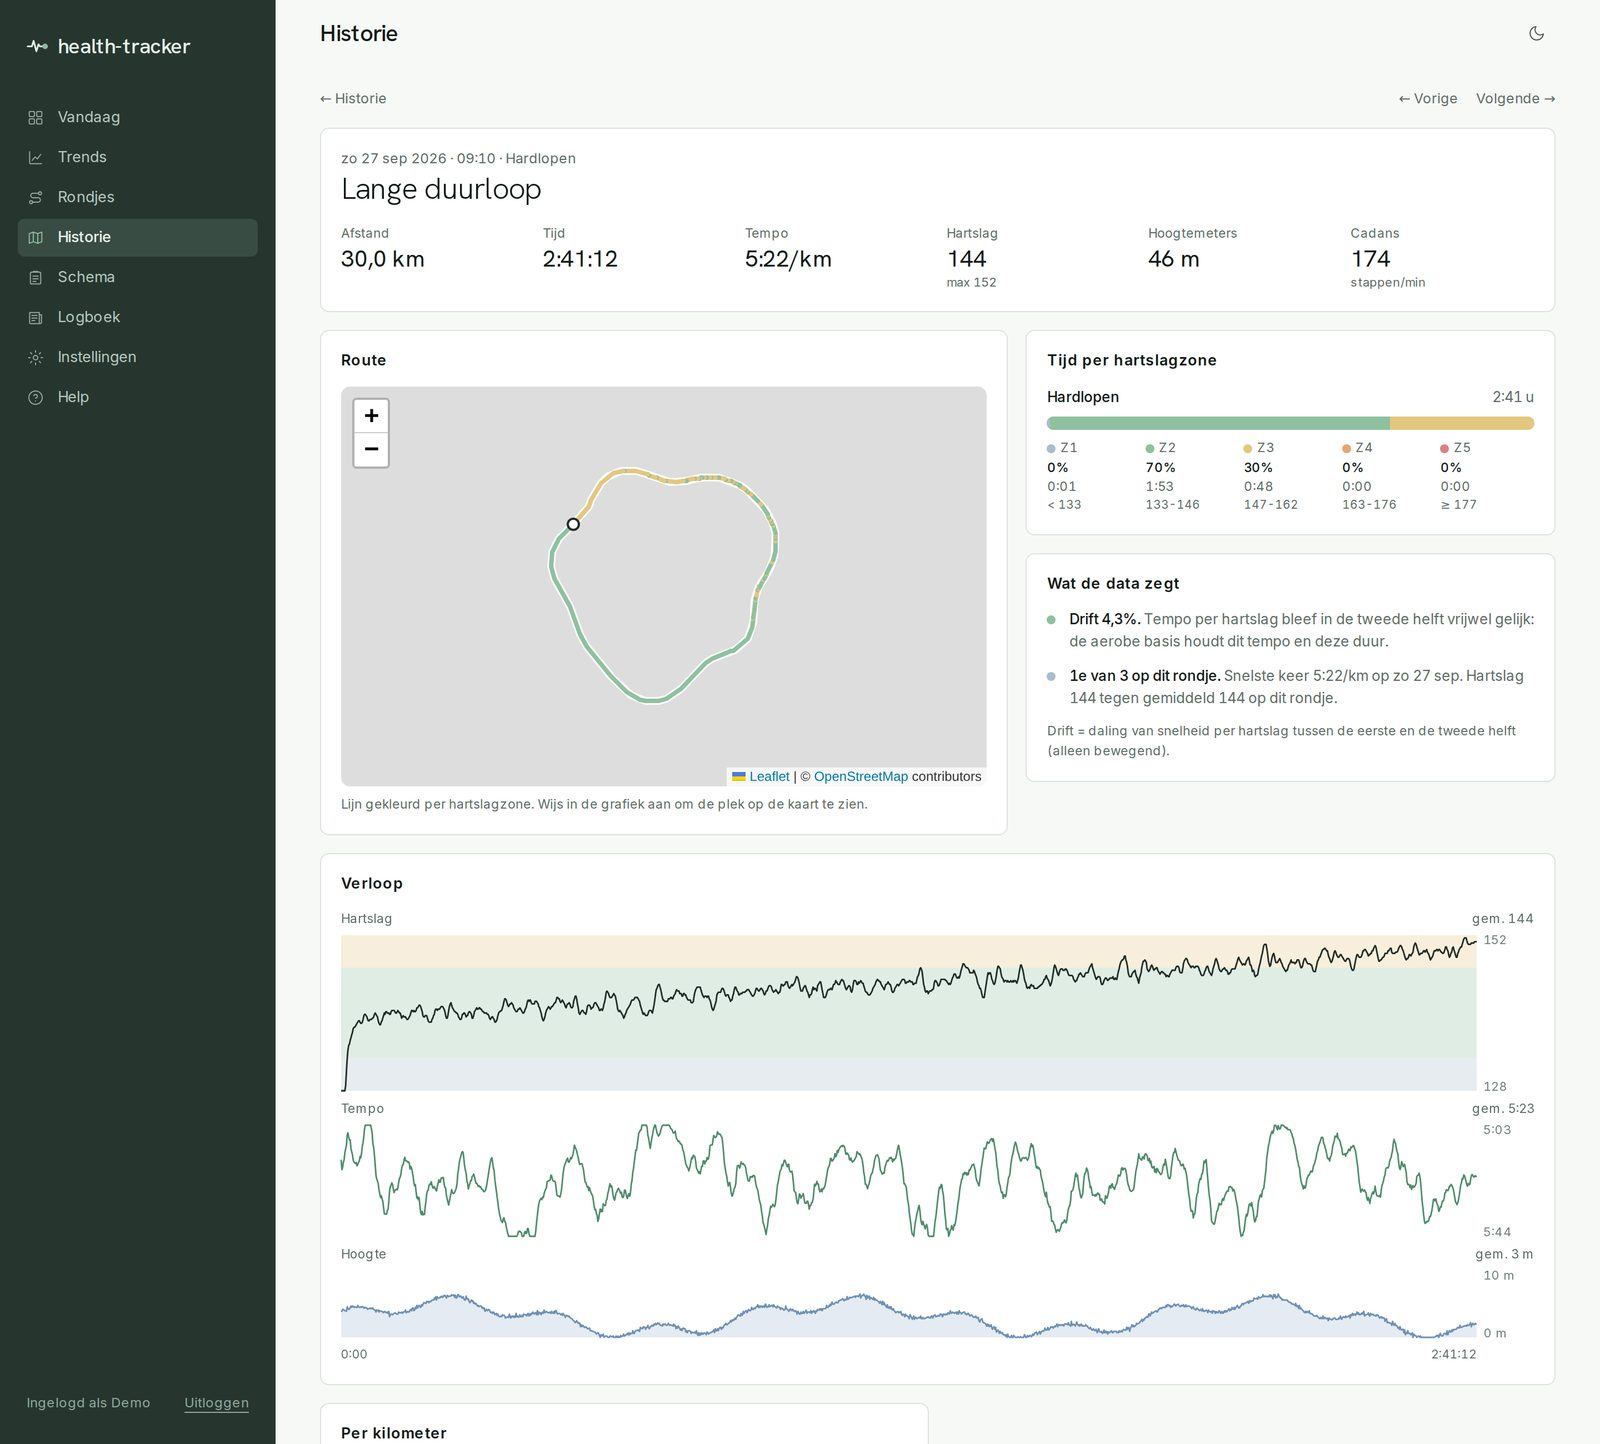
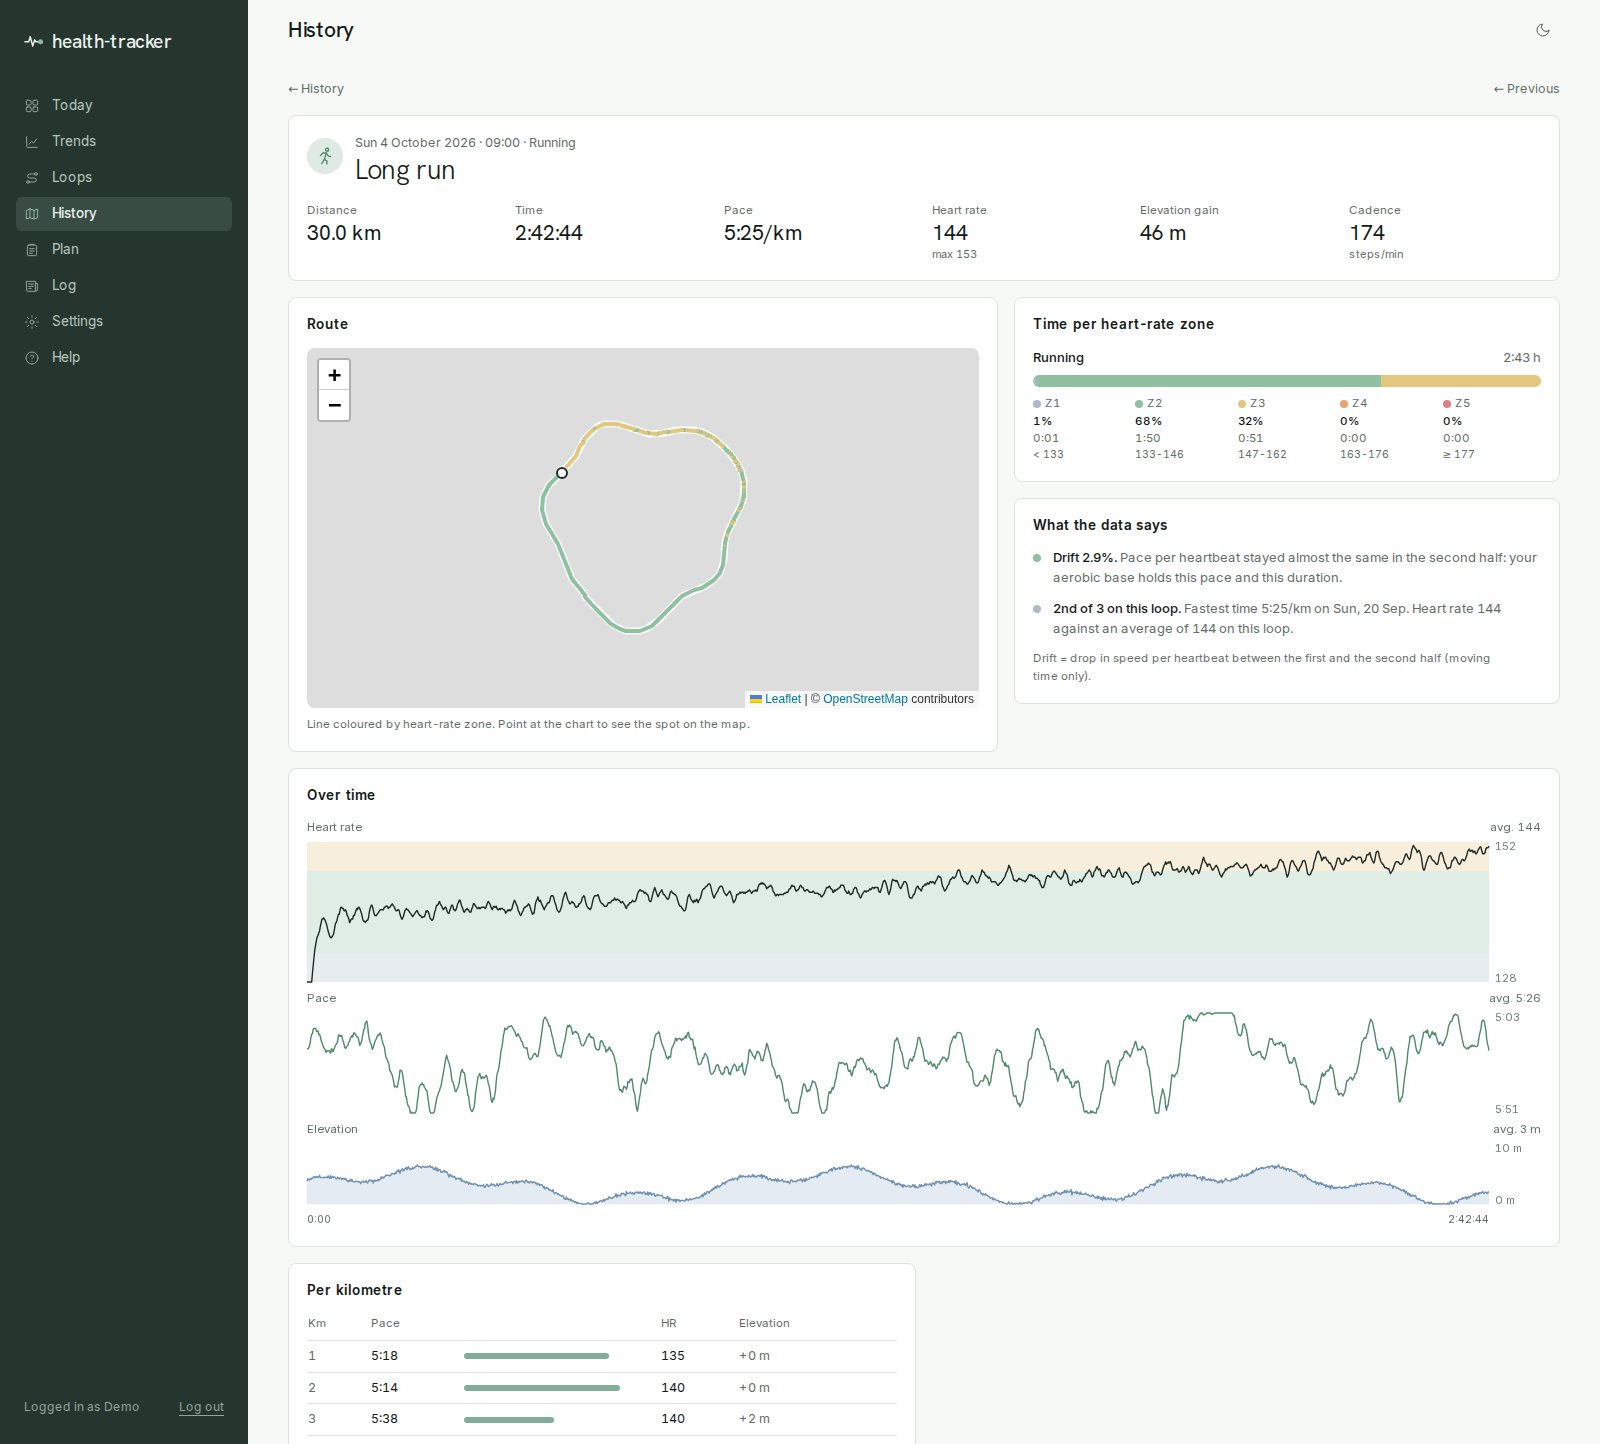
README screenshots in English, with a script to retake them; English UI labels in the README
Claude-Session: https://claude.ai/code/session_01G7FmcGzhzmbNA2gWi5bSnJ

diff --git a/README.md b/README.md
@@ -2,9 +2,9 @@
 
 **A self-hosted training platform on top of your Garmin data, built so that both you and an AI coach (Claude, over MCP) work from the same numbers.**
 
-![Dashboard ("Vandaag") with readiness, upcoming sessions, form and time per heart-rate zone](docs/screenshots/dashboard.jpg)
+![The Today page with readiness, training load, this week of the plan, upcoming sessions and form](docs/screenshots/dashboard.jpg)
 
-<sub>All screenshots show the synthetic demo account from [`scripts/seed_demo.py`](scripts/seed_demo.py); no real person's data. The UI is in Dutch and English; these screenshots show the Dutch version.</sub>
+<sub>All screenshots show the synthetic demo account from [`scripts/seed_demo.py`](scripts/seed_demo.py); no real person's data. The UI is in English and Dutch; these screenshots show the English version. Regenerate them with [`scripts/screenshots.mjs`](scripts/screenshots.mjs).</sub>
 
 health-tracker syncs runs, rides, swims, sleep and recovery from Garmin Connect into Postgres, computes what the watch
 app does not (your own heart-rate zones per sport, training load, recurring routes, race predictions) and shows it in a
@@ -27,7 +27,7 @@ can run their own instance, invite friends, and each account only ever sees its 
 
 ## Features
 
-**Today (Vandaag).** A readiness check that compares last night's resting heart rate, sleep and Body Battery with *your own*
+**Today.** A readiness check that compares last night's resting heart rate, sleep and Body Battery with *your own*
 baseline and your current form, the next sessions from the active plan (with a suggested route), form (fitness, fatigue,
 freshness), time per heart-rate zone per week or month for all sports and per sport, and this week's volume next to the
 four-week average.
@@ -44,22 +44,26 @@ weekly recovery, record progression, detected races and predicted race times (Ri
 
 ![Trends: insights, predicted race times and the form chart](docs/screenshots/trends.jpg)
 
-**Routes (Rondjes).** Recurring routes are recognised automatically, independent of where you started the watch, for runs
+**Loops.** Recurring routes are recognised automatically, independent of where you started the watch, for runs
 and rides. Each route shows its most typical track, every other run drawn lightly underneath, and pace and efficiency
 (metres per heartbeat) over time. "A loop of X km" combines known routes into a suggestion for a given distance.
 
 | | |
 |---|---|
-| ![Route overview with a map per recurring route](docs/screenshots/rondjes.jpg) | ![One route with its pace and efficiency trend](docs/screenshots/rondje.jpg) |
+| ![Loop overview with a map per recurring route](docs/screenshots/routes.jpg) | ![One loop with its pace and efficiency trend](docs/screenshots/route.jpg) |
 
-**Training plan (Schema).** Create a plan in the editor, paste a markdown/CSV table, or let an agent write it. Planned
+**Training plan.** Create a plan in the editor, paste a markdown/CSV table, or let an agent write it. Planned
 sessions are matched to what you actually did (done, missed, today, planned), with zone compliance per session, weekly
 planned-versus-done kilometres, a race countdown and a suggested route for every run or ride.
 
-![Training plan: this week, with each session matched to the activity that was done](docs/screenshots/plan.jpg)
+| | |
+|---|---|
+| ![The active plan with kilometres per week: done, planned and the race](docs/screenshots/plan.jpg) | ![One week of the plan, with each session matched to the activity that was done](docs/screenshots/plan-week.jpg) |
 
 **History, log and analyses.** A filterable activity list per month, a log and an analyses section (markdown), goals and
 profile documents. Agents write here too; every entry records who wrote it.
+
+![History: activities per month with distance, pace, heart rate and time per zone](docs/screenshots/history.jpg)
 
 **Settings.** Heart-rate zones per sport as a percentage of max HR (with a suggestion from your own data), profile facts,
 the Garmin connection (including MFA), agent tokens with copy-ready MCP instructions, and an admin panel (users, roles,
@@ -156,12 +160,12 @@ You need a Garmin Connect account with a watch that records heart rate. Everythi
 4. On `web`, set the variables from the table below. At minimum:
    `DATABASE_URL=${{Postgres.DATABASE_URL}}`, `TRAINING_JWT_SECRET`, `TOKEN_ENCRYPTION_KEY`, `PORT=8000`, `HOST=0.0.0.0`.
 5. Under Settings, set the healthcheck path to `/api/health`, and under Networking generate a public domain.
-6. Deploy. Open the domain and follow **Maak het eerste (beheerder)** (create the first, admin account) on the login page: on an empty database the first
+6. Deploy. Open the domain and follow **Create the first one (admin)** on the login page: on an empty database the first
    account becomes the admin. Registration then switches to `closed`; open it or create invite codes under
-   Instellingen, Beheer.
-7. Connect Garmin under Instellingen, Koppelingen (email, password and the MFA code if Garmin asks). The first sync starts
+   Settings, Admin.
+7. Connect Garmin under Settings, Connections (email, password and the MFA code if Garmin asks). The first sync starts
    right away; after that `web` syncs every connected user daily after 06:00 Europe/Amsterdam.
-8. Set your heart-rate zones under Instellingen, Zones en profiel (the page suggests a max HR from your own data).
+8. Set your heart-rate zones under Settings, Zones and profile (the page suggests a max HR from your own data).
 
 Optional: a separate **cron service** for the sync, if you prefer it outside the web process. Add a second service from the
 same repo with `Dockerfile.sync`, cron schedule `0 4 * * *`, and the same `DATABASE_URL` and `TOKEN_ENCRYPTION_KEY`; then
@@ -237,7 +241,7 @@ Garmin is never called in tests: the sync takes an injectable client and FIT rea
 ## Connect an AI agent (MCP)
 
 The site is an MCP server at `/api/mcp` (streamable HTTP, stateless, JSON responses). Create a token under
-Instellingen, Agents; it is shown once. Tools: `get_context`, `list_activities`, `get_activity`, `get_trends`, `get_plan`,
+Settings, Agents; it is shown once. Tools: `get_context`, `list_activities`, `get_activity`, `get_trends`, `get_plan`,
 `create_plan`, `replace_plan_sessions`, `set_plan_status`, `add_log`, `list_log`, `get_doc`, `update_doc`, `suggest_route`.
 
 - **Claude app / claude.ai:** Settings, Connectors, Add custom connector, URL `https://<your-domain>/api/mcp/<token>`.
@@ -264,7 +268,7 @@ tools/               database schema and queries (db.py), Garmin sync (sync.py, 
                      (derive.py, zones.py, routes.py, recommend.py, analytics.py), encryption (secretbox.py), CLI (tr.py)
 web/                 Next.js app: app/(app)/<page> per screen (app/(redirects) for old Dutch paths), components
                      (design system, charts, maps, plan, zones)
-scripts/seed_demo.py synthetic demo account
+scripts/             seed_demo.py (synthetic demo account), screenshots.mjs (retakes the README screenshots)
 tests/               pytest, one file per module
 docs/                developer notes, design documents, screenshots
 Dockerfile           web + API image (Node build stage, Python runtime)

diff --git a/docs/DEVELOPMENT.md b/docs/DEVELOPMENT.md
@@ -27,6 +27,7 @@ give `web` and `sync` the same key. If Garmin invalidates a session, the user re
 | `tools/sync.py`, `tools/fit.py`, `tools/store.py` | Garmin sync, FIT stream parsing, record normalisation and merge rules |
 | `tools/zones.py`, `tools/analytics.py`, `tools/summarize.py`, `tools/routes.py`, `tools/recommend.py` | Zones, training load (CTL/ATL/TSB), sessions, route recognition, route suggestions |
 | `scripts/seed_demo.py` | Demo user with six months of synthetic data |
+| `scripts/screenshots.mjs` | Retakes the README screenshots (`docs/screenshots/`) from a local instance with the demo user, in English (Playwright) |
 | `tests/` | pytest, one file per module |
 
 ## Working on it
@@ -79,7 +80,7 @@ The site is in Dutch (`nl`, the source) and English (`en`, en-GB formatting: 5.3
 Adding a string: add the key to `nl.ts` and `en.ts`, use `const t = useT()` and `t.area.key` (or `t.area.key(params)`), run
 `npm run check:i18n`. An API text the site shows is a code with params (`ApiError`, see Errors), never a sentence.
 
-Which language: the account's `locale` (`GET /api/me`, set with `PATCH /api/account {locale}` from Instellingen, Account,
+Which language: the account's `locale` (`GET /api/me`, set with `PATCH /api/account {locale}` from Settings, Account,
 or at registration); without one the last choice on this device (localStorage `locale`, also the switch on the login
 page), else the browser language (Dutch browsers Dutch, everything else English). `<html lang>` follows, set before
 the first paint by an inline script in `web/app/layout.tsx`.
